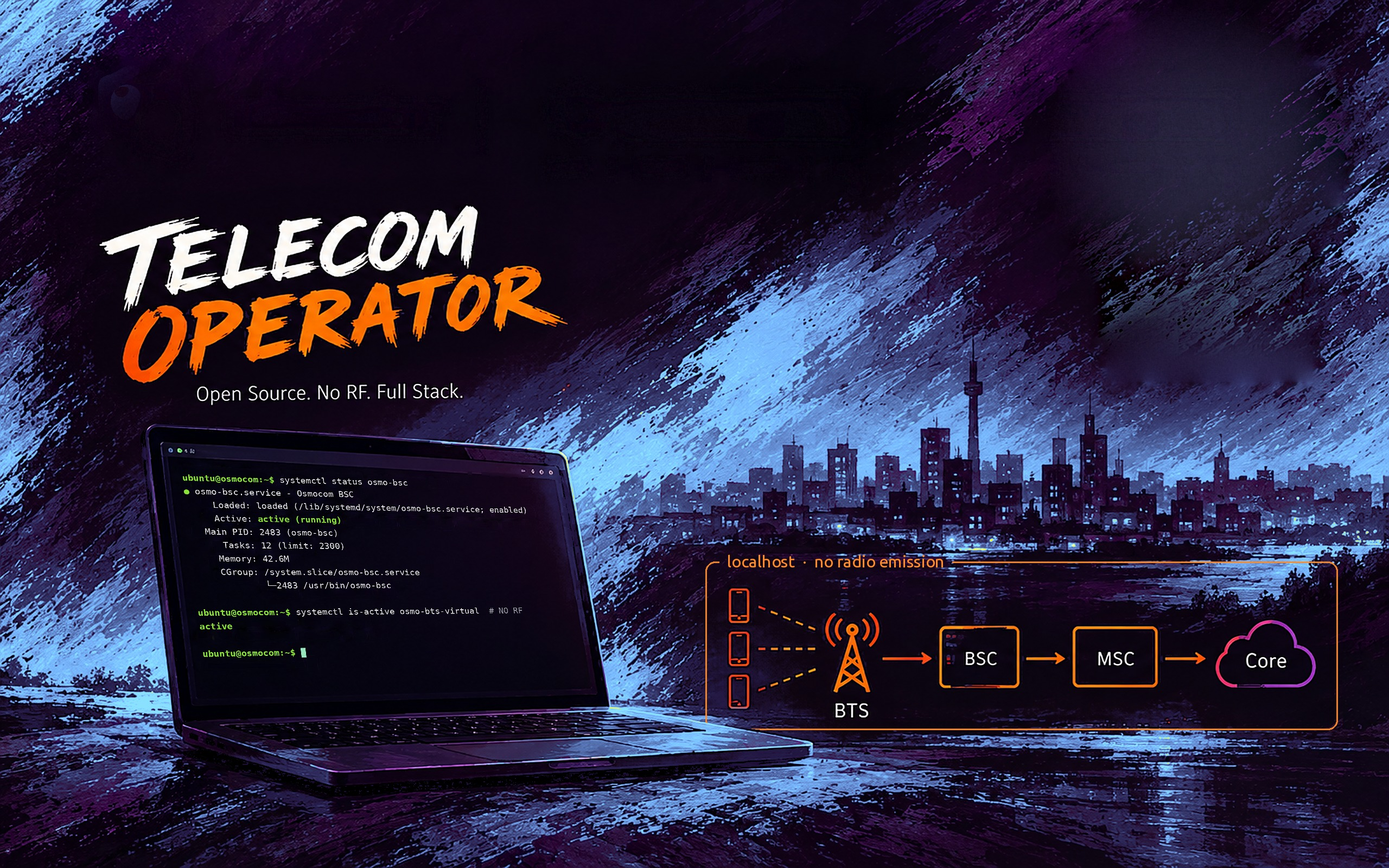
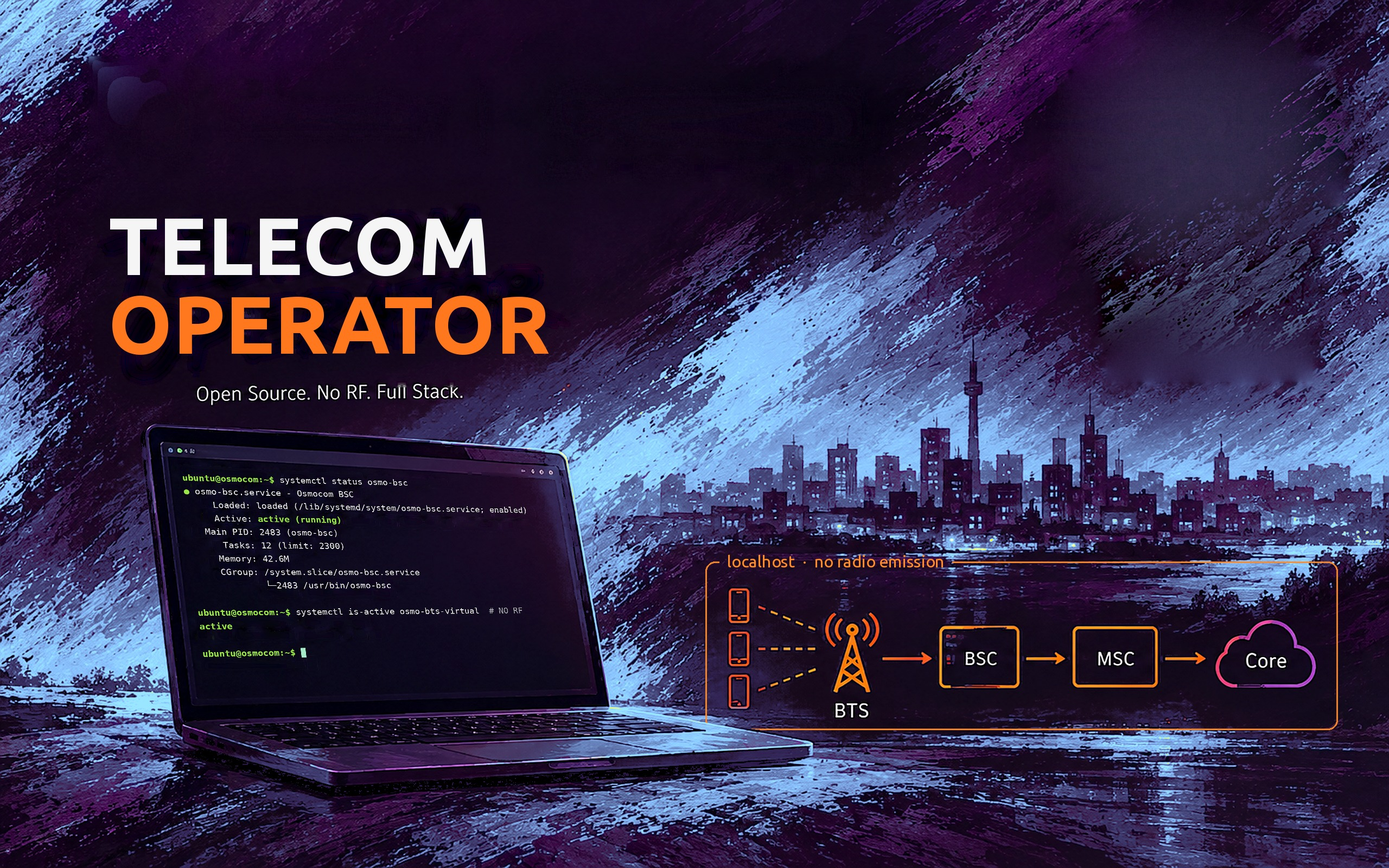
commit

diff --git a/pont/downlink.py b/pont/downlink.py
@@ -6,6 +6,17 @@ import struct
 from . import gsm
 
 _dcch_gen = [0]   # [2026-10-22] generation de calypso_dcch_cfg (IMM ASS), voir CHANNEL RELEASE
+# [2026-10-24] RA des derniers RACH du firmware TI (dsp/uplink.py, noter_rach) et instant de la derniere IMM ASS
+# retenue : voir _imm_ass_dcch.
+_rach_ra = []
+_imm_ass_retenue = [0.0]
+IMM_ASS_GARDE_S = float(os.environ.get("PONT_IMM_ASS_GARDE", "2.0"))
+
+
+def noter_rach(ra):
+    """Un RACH du firmware TI : le mobile acceptera l'IMM ASS qui repond a l'un de ses 3 derniers (44.018 3.3.1.1.3)."""
+    _rach_ra.append(ra)
+    del _rach_ra[:-3]
 
 log = logging.getLogger("pont")
 
@@ -217,7 +228,13 @@ class Downlink:
         mobile va. L'IMMEDIATE ASSIGNMENT (44.018 9.1.18) le dit : octet 1 pseudo-longueur, 2 PD, 3 type,
         4 mode de page, 5 chan_nr. SDCCH/4 = 0b00100SST, SDCCH/8 = 0b01SSSTTT. Le dernier recu gagne : la BSC
         repond aux RACH dans l'ordre, et celui que le mobile accepte (sa reference) arrive en dernier.
-        CALYPSO_PONT_IMM_DCCH=0 pour couper ; seulement avec MS_MAGNETITE (le firmware osmocom a son tap)."""
+        CALYPSO_PONT_IMM_DCCH=0 pour couper ; seulement avec MS_MAGNETITE (le firmware osmocom a son tap).
+        [2026-10-24] FAUX : le mobile prend la PREMIERE qui repond a l'un de ses RACH et ignore les suivantes. Appel du
+        24/10 18:59 : 5 IMM ASS (SS0..SS4), le C139 sur SS0 (SS1..4 tombes en T3101 a la BSC), le pont sur SS4 ;
+        l'ASSIGNMENT COMMAND passait sur SS0 sans etre lue, TCH jamais arme, pas de SABM sur la FACCH, « Assignment
+        Failure ». On garde donc la premiere dont la reference (octet 7, RA) est un RACH du mobile, puis on ignore
+        les autres pendant PONT_IMM_ASS_GARDE s (le pont lit le descendant ~30 trames avant le mobile, qui peut
+        encore emettre un RACH). Sans RA connu (decodage rate), l'ancienne regle."""
         if not os.environ.get("MS_MAGNETITE") or os.environ.get("CALYPSO_PONT_IMM_DCCH", "1") == "0":
             return
         if len(l2) < 5 or l2[1] != gsm.RR_PD:
@@ -229,6 +246,15 @@ class Downlink:
             kind, ss = 1, (cn >> 3) & 7
         else:
             return
+        if _rach_ra and len(l2) > 7:
+            import time
+            ra = l2[7]
+            if ra not in _rach_ra or time.monotonic() - _imm_ass_retenue[0] < IMM_ASS_GARDE_S:
+                log.info("IMMEDIATE ASSIGNMENT (fn=%u) : SDCCH TS%d SS%d pour RA 0x%02x, ignoree (RACH du mobile : %s)",
+                         fn, cn & 7, ss, ra, " ".join("0x%02x" % r for r in _rach_ra) or "-")
+                return
+            _imm_ass_retenue[0] = time.monotonic()
+            _rach_ra.clear()
         from .state import ecrire_dcch
         _dcch_gen[0] += 1                                  # annule une liberation differee en attente
         ecrire_dcch(kind, ss, cn)

diff --git a/tools/osmo-fond-bleu.py b/tools/osmo-fond-bleu.py
@@ -80,7 +80,39 @@ t = np.clip(L / 0.6, 0, 1)[..., None]
 VIOLET, BLEU = np.array([45, 22, 85]) / 255, np.array([120, 195, 255]) / 255
 neuf = (VIOLET * (1 - t) + BLEU * t) * (0.55 + 0.45 * np.clip(mx / 0.9, 0, 1))[..., None] * 1.15
 out = a * (1 - w[..., None]) + np.clip(neuf, 0, 1) * w[..., None]
+
+# [2026-10-24] TITRE EN UBUNTU SANS. « TELECOM OPERATOR » etait peint au pinceau dans la source : on efface
+# les lettres (blanches ou orange, dans le cadre du titre, dilatees pour prendre leur liseré sombre) en
+# rebouchant par une convolution normalisee de plus en plus large (pas d OpenCV sur le banc), puis on les
+# reecrit plus bas dans la police par defaut d Ubuntu. Le sous-titre « Open Source... » reste tel quel.
+X0, Y0, X1, Y1 = (round(v * k) for v in (160, 375, 1065, 708))
+L = 0.3 * out[..., 0] + 0.59 * out[..., 1] + 0.11 * out[..., 2]
+omx, omn = out.max(2), out.min(2)
+osat = np.where(omx > 0, (omx - omn) / np.maximum(omx, 1e-6), 0)
+lettre = np.zeros((H, W), bool)
+lettre[Y0:Y1, X0:X1] = (((L > .38) & (osat < .45)) |
+                        ((out[..., 0] > .45) & (out[..., 0] > out[..., 1] * 1.3) & (osat > .4)))[Y0:Y1, X0:X1]
+M = np.asarray(Image.fromarray((lettre * 255).astype(np.uint8))
+               .filter(ImageFilter.MaxFilter(9)).filter(ImageFilter.MaxFilter(5))) > 127
+connu = (~M).astype(float)
+for rayon in (2, 4, 8, 16, 32, 64):
+    num = np.asarray(Image.fromarray((np.clip(out * connu[..., None], 0, 1) * 255).astype(np.uint8))
+                     .filter(ImageFilter.GaussianBlur(rayon * k)), float) / 255
+    den = np.asarray(Image.fromarray((connu * 255).astype(np.uint8))
+                     .filter(ImageFilter.GaussianBlur(rayon * k)), float) / 255
+    sel = M & (den > .02) & (connu < .5)
+    out[sel] = (num / np.maximum(den[..., None], 1e-3))[sel]
+    connu[sel] = 1
+
+# [2026-10-24] un peu plus clair : gamma sur tout le fond (les sombres remontent plus que les clairs)
+out = np.clip(out, 0, 1) ** float(os.environ.get("OSMO_FOND_GAMMA", "0.82"))
 img = Image.fromarray((np.clip(out, 0, 1) * 255).astype(np.uint8))
+TITRE_FONTE = "/usr/share/fonts/truetype/ubuntu/UbuntuSans[wdth,wght].ttf"
+ft = ImageFont.truetype(TITRE_FONTE, round(150 * k))
+ft.set_variation_by_axes([100, 800])
+dt = ImageDraw.Draw(img)
+dt.text((round(200 * k), round(400 * k)), "TELECOM", font=ft, fill=(245, 245, 245), anchor="lt")
+dt.text((round(200 * k), round(545 * k)), "OPERATOR", font=ft, fill=(255, 120, 30), anchor="lt")
 
 # cadre autour du schema : tout tourne en local, sans emission radio. Le titre
 # est pose dans une coupure du trait du haut (comme une legende de fieldset).

diff --git a/pont/gsm.py b/pont/gsm.py
@@ -52,6 +52,8 @@ _cod.gsm0503_xcch_encode.argtypes = [ctypes.POINTER(ubit), ctypes.POINTER(ctypes
 _cod.gsm0503_xcch_decode.argtypes = [ctypes.POINTER(ctypes.c_uint8), ctypes.POINTER(sbit),
                                      ctypes.POINTER(ctypes.c_int), ctypes.POINTER(ctypes.c_int)]
 _cod.gsm0503_rach_ext_encode.argtypes = [ctypes.POINTER(ubit), ctypes.c_uint16, ctypes.c_uint8, ctypes.c_bool]
+_cod.gsm0503_rach_decode_ber.argtypes = [ctypes.POINTER(ctypes.c_uint8), ctypes.POINTER(sbit), ctypes.c_uint8,
+                                        ctypes.POINTER(ctypes.c_int), ctypes.POINTER(ctypes.c_int)]
 _cod.gsm0503_sch_decode.argtypes = [ctypes.POINTER(ctypes.c_uint8), ctypes.POINTER(sbit)]
 _cod.gsm0503_tch_fr_encode.argtypes = [ctypes.POINTER(ubit), ctypes.POINTER(ctypes.c_uint8), ctypes.c_int, ctypes.c_int]
 _cod.gsm0503_tch_fr_decode.argtypes = [ctypes.POINTER(ctypes.c_uint8), ctypes.POINTER(sbit), ctypes.c_int,
@@ -132,6 +134,20 @@ def rach_burst(ra, bsic):
     coded = (ubit * 40)()
     _cod.gsm0503_rach_ext_encode(coded, ctypes.c_uint16(ra), ctypes.c_uint8(bsic), False)
     return bytes(8) + RACH_SYNC + bytes(coded)[:36] + bytes(148 - 8 - 41 - 36)
+
+
+def rach_ra(burst, bsic):
+    """[2026-10-24] RA d'un access burst (bits durs, 8 de queue + 41 de synchro + 36 codes), None si le CRC
+    (colore par le BSIC) ne colle pas."""
+    d36 = burst[8 + 41:8 + 41 + 36]
+    if len(d36) != 36:
+        return None
+    buf = (sbit * 36)(*[-127 if b else 127 for b in d36])
+    ra = ctypes.c_uint8()
+    nerr, nbits = ctypes.c_int(), ctypes.c_int()
+    if _cod.gsm0503_rach_decode_ber(ctypes.byref(ra), buf, ctypes.c_uint8(bsic), ctypes.byref(nerr), ctypes.byref(nbits)):
+        return None
+    return ra.value
 
 
 def a5_keystream(algo, kc, fn):

diff --git a/pont/dsp/uplink.py b/pont/dsp/uplink.py
@@ -371,6 +371,12 @@ class UplinkDsp(Uplink):
             self.tx_rom.trx.send_ul(tn, (fn + UL_RAW_DECAL) % gsm.HYPERFRAME, list(bits), False)
             if typ == 1:
                 st.air_rom_rach += 1
+                ra = gsm.rach_ra(bits, self.cfg.bsic)      # [2026-10-24] voir downlink._imm_ass_dcch
+                if ra is not None:
+                    from ..downlink import noter_rach
+                    noter_rach(ra)
+                elif st.air_rom_rach <= 3:
+                    log.info("RACH ROM #%d : RA illisible (BSIC %d), IMM ASS choisie sans reference", seq, self.cfg.bsic)
             elif tn == self.dedicated.pdch():
                 st.air_rom_pdch += 1
             elif typ not in (1, 2):

diff --git a/doc/magnetite.md b/doc/magnetite.md
@@ -108,5 +108,12 @@ le TRX de la BTS garde le firmware trx (run.sh refuse FIRMWARE_FLASH avec OSMO_T
 La fenetre GTK bascule seule en C139 quand l'ecran partage change de magic, se relance avec
 /usr/bin/python3 si gi manque.
 
-Points ouverts : « SIM Invalid » ; os_SystemError au format du FFS ; accrochage reseau sur le
+[2026-10-24] « SIM Invalid » elucide (qosmo `calypso_sim.c`) : l'IT TX etait levee aussitot l'octet ecrit, l'en-tete
+partait en quelques us et l'ACK arrivait 1,5 ms apres le premier octet. `SIM_Command_Base` ecrit le premier octet puis
+seulement passe `moderx` a 6 : une tache SIM preemptee entre les deux rangeait l'ACK comme SW1, finissait en
+SIM_ERR_WAIT et renvoyait un en-tete que l'emulateur prenait pour les donnees (`SELECT 0xa0a4`, puis `CLA=00 INS=00`
+-> 6D00 a perpetuite). Correctifs : IT TX apres un temps caractere (`CALYPSO_SIM_US_OCTET`), et un silence de plus
+de 500 ms au milieu d'un APDU le resynchronise.
+
+Points ouverts : os_SystemError au format du FFS ; accrochage reseau sur le
 banc (--bts --ms-magnetite) jamais observe jusqu'au LU ; DSP reel « occupe boot ».
